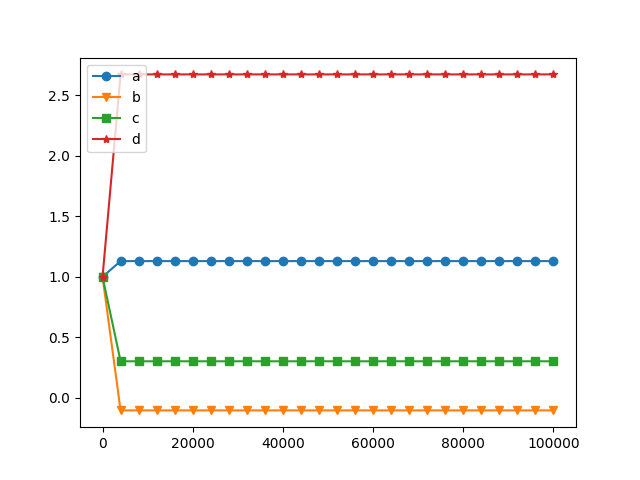
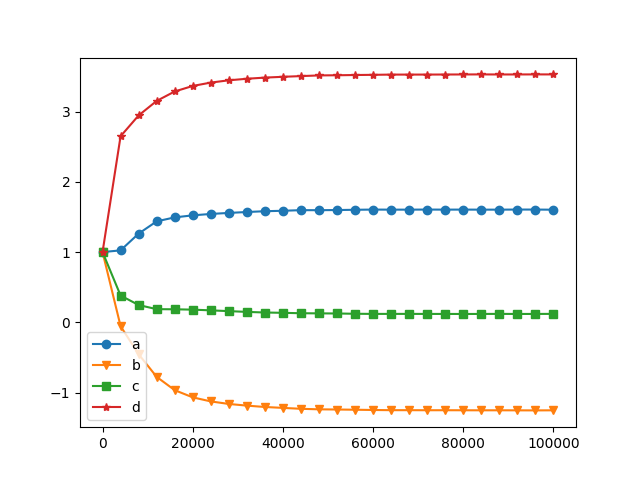
edit lm method

diff --git a/multivariate_optimization/test_lsm.py b/multivariate_optimization/test_lsm.py
@@ -63,11 +63,13 @@ if __name__ == "__main__":
     first_model = model1()
     model1_data1 = model_data(data_type=1, file_name='Model1_Data.txt')
     track_parameter, results1 = gauss_newton(first_model, model1_data1)
+    print(track_parameter[-1])
     lsm_parameter_visualization(track_parameter, method='GN', data='data1', model='model1')
 
     second_model = model1()
     model1_data2 = model_data(data_type=2, file_name='Model1_Data.txt')
     track_parameter, results2 = gauss_newton(second_model, model1_data2)
+    print(track_parameter[-1])
     lsm_parameter_visualization(track_parameter, method='GN', data='data2', model='model1')
 
     lsm_function_value_visualization(results1, results2, method='GN', model='model1')
@@ -75,11 +77,13 @@ if __name__ == "__main__":
     third_model = model2()
     model2_data1 = model_data(data_type=1, file_name='Model2_Data.txt')
     track_parameter, results1 = gauss_newton(third_model, model2_data1)
+    print(track_parameter[-1])
     lsm_parameter_visualization(track_parameter, method='GN', data='data1', model='model2')
     
     fourth_model = model2()
     model2_data2 = model_data(data_type=2, file_name='Model2_Data.txt')
     track_parameter, results2 = gauss_newton(fourth_model, model2_data2)
+    print(track_parameter[-1])
     lsm_parameter_visualization(track_parameter, method='GN', data='data2', model='model2')
 
     lsm_function_value_visualization(results1, results2, method='GN', model='model2')
@@ -88,11 +92,13 @@ if __name__ == "__main__":
     first_model = model1()
     model1_data1 = model_data(data_type=1, file_name='Model1_Data.txt')
     track_parameter, results1 = levenberg_marquardt(first_model, model1_data1)
+    print(track_parameter[-1])
     lsm_parameter_visualization(track_parameter, method='LM', data='data1', model='model1')
 
     second_model = model1()
     model1_data2 = model_data(data_type=2, file_name='Model1_Data.txt')
     track_parameter, results2 = levenberg_marquardt(second_model, model1_data2)
+    print(track_parameter[-1])
     lsm_parameter_visualization(track_parameter, method='LM', data='data2', model='model1')
 
     lsm_function_value_visualization(results1, results2, method='LM', model='model1')
@@ -100,11 +106,13 @@ if __name__ == "__main__":
     third_model = model2()
     model2_data1 = model_data(data_type=1, file_name='Model2_Data.txt')
     track_parameter, results1 = levenberg_marquardt(third_model, model2_data1)
+    print(track_parameter[-1])
     lsm_parameter_visualization(track_parameter, method='LM', data='data1', model='model2')
     
     fourth_model = model2()
     model2_data2 = model_data(data_type=2, file_name='Model2_Data.txt')
     track_parameter, results2 = levenberg_marquardt(fourth_model, model2_data2)
+    print(track_parameter[-1])
     lsm_parameter_visualization(track_parameter, method='LM', data='data2', model='model2')
 
     lsm_function_value_visualization(results1, results2, method='LM', model='model2')

diff --git a/multivariate_optimization/least_square_methods/levenberg_marquardt.py b/multivariate_optimization/least_square_methods/levenberg_marquardt.py
@@ -5,7 +5,9 @@ import numpy as np
 def levenberg_marquardt(model, data_loader, max_step=100000, threshold=1e-15):
     track_position = [model.get_position()]
     track_res = []
-    lambda_k = 0.001
+    lambda_k = 1
+    lambda_min = 1e-5
+    lambda_max = 10**5
     for i, data in enumerate(cycle(data_loader)):
         x, y, z, target = data
         output = model.forward(x, y, z)
@@ -14,18 +16,18 @@ def levenberg_marquardt(model, data_loader, max_step=100000, threshold=1e-15):
         jacobian = model.jacobian(x, y, z)
 
         a = np.dot(np.transpose(np.expand_dims(jacobian, axis=0)), np.expand_dims(jacobian, axis=0))
-        a = a + np.ones(a.shape)
+        a = a + lambda_k * np.ones(a.shape)
         b = np.dot(-np.transpose(np.expand_dims(jacobian, axis=0)), np.array([residual]))
 
         pk = np.linalg.lstsq(a=a, b=b)[0]
-        model.set_position(model.get_position() + lambda_k * pk)
+        model.set_position(model.get_position() + 0.001 * pk)
         track_position.append(model.get_position())
         if i >= max_step:
             break
         if i >= 1:
-            if np.abs(track_res[-2]) > np.abs(track_res[-1]): #decrease
-                lambda_k = lambda_k / 2
-            else:
-                lambda_k = lambda_k * 2
+            if np.abs(track_res[-2]) > np.abs(track_res[-1]) and lambda_k > lambda_min: #decrease
+                lambda_k = lambda_k / 10
+            elif np.abs(track_res[-2]) < np.abs(track_res[-1]) and lambda_k < lambda_max:
+                lambda_k = lambda_k * 10
     
     return track_position, track_res
